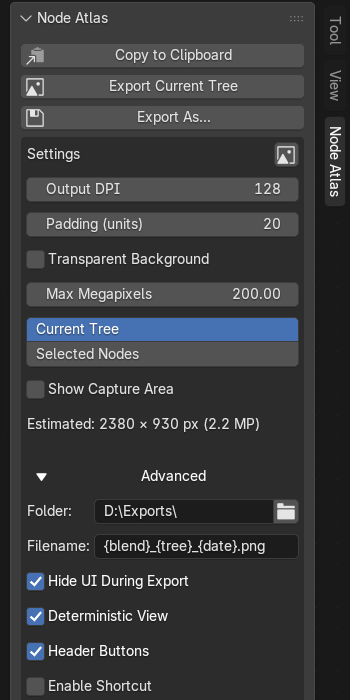
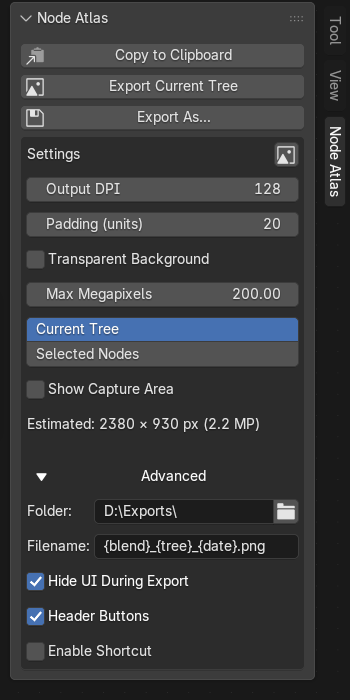
Release 1.7.1
Ship the fix for selection highlights at a non-100 percent interface Resolution Scale and drop the Deterministic View option. The per-tile selection now maps node positions with the UI-scale factor and takes its origin from the drawable nodes, so nodes and frames inside the capture stay unselected; every export primes the view with view_all, so repeatability no longer needs a setting.

Bump the manifest, __version__ and bl_info to 1.7.1. Add the CHANGELOG and RELEASE_NOTES entries, update the AGENTS status and the position-scale invariant, and record the 1.7.1 matrix, unit counts and artifact in QA_REPORT.

The full 185/185 matrix (37 per version) ran on the fix commit; after the version bump the unit suite passed 29/29 on all five, and test_artifact passed as an extension and as a classic add-on on all five. The 1.7.1 zip is dist/node_atlas-1.7.1.zip, SHA256 b8bafb6a263c5ae848e7ca169d3107ed27d364990e7d45ab8ef6284d953d0851.

Refs: report 5 item 17 and 11.10; QA_REPORT 1.7.1

Changed region(s): [[0.0286, 0.87, 0.4857, 1.0], [0.8571, 0.96, 0.9143, 1.0]]

diff --git a/node_atlas/__init__.py b/node_atlas/__init__.py
@@ -12,13 +12,13 @@ from .log import get_logger
 
 log = get_logger()
 
-__version__ = "1.7.0"
+__version__ = "1.7.1"
 __author__ = "kirillhod"
 
 bl_info = {
     "name": "Node Atlas",
     "author": "kirillhod",
-    "version": (1, 7, 0),
+    "version": (1, 7, 1),
     "blender": (4, 2, 0),
     "location": "Node Editor > Sidebar > Node Atlas",
     "description": "Export any node tree as one high-resolution PNG",

diff --git a/QA_REPORT.md b/QA_REPORT.md
@@ -1,18 +1,23 @@
 # NodeAtlas QA report
 
-**Version:** 1.7.0<br>
+**Version:** 1.7.1<br>
 **Date:** 22 November 2026<br>
 **Platforms:** Windows, GUI sessions only
 
-> **1.7.0.** Adds **Transparent Background**: the editor background and the padding are
-> removed by two-background matting, so shadows, links and semi-transparent frames keep
-> their real alpha. Each tile is captured twice, over black and over mid-grey, in two
-> passes: the editor dims once per pass, never flashing white. The theme and the backdrop
-> grid are restored after success, cancel and an induced failure, and the first pass is
-> held on disk so peak memory is unchanged. The capture-area preview is now off by default.
+> **1.7.1.** Patch release for exports at a non-default interface **Resolution Scale** and
+> for the repeatability option. The per-tile selection that keeps long links at full
+> strength mapped node positions with the size factor, so at Resolution Scale 1.25 nodes
+> and frames that were inside the capture were selected and their outline and frame tint
+> appeared in the PNG. Positions now use `s`, sizes `k` (report §5 item 17), and the box
+> origin comes from the drawable nodes. On a 53-node shader tree at 128 DPI the old box
+> selected 36 visible node-tile pairs across eight of nine tiles; the old and fixed exports
+> differed by 37 392 px. **Deterministic View** is gone: every export primes with
+> `view_all`, so repeated exports are identical without a setting.
 >
-> Full source matrix for 1.7.0: **36/36 GUI runs and 28/28 unit tests on each of
-> Blender 4.2.23, 4.5.9, 5.1.2, 5.2.4 and 5.3.0** (180/180 GUI total).
+> Full source matrix: **37/37 GUI runs and 29/29 unit tests on each of Blender 4.2.23,
+> 4.5.9, 5.1.2, 5.2.4 and 5.3.0** (185/185 GUI total). The matrix ran on the fix commit;
+> the later version-bump commit changes only the three version fields, and the unit suite
+> (including the version-consistency case) was re-run after the bump.
 > `test_artifact.py` results and the artifact hash are in [Packaging](#packaging).
 >
 > The detailed tables below are the 1.3.6 baseline; 1.4.0 changed sizes only by the
@@ -67,8 +72,8 @@ blender --background --factory-startup --python tests/unit/test_core.py
 | Shortcut keymap / customization | PASS | PASS | PASS | PASS | PASS |
 | Manifest/`__version__` consistency | PASS | PASS | PASS | PASS | PASS |
 
-Result: **19/19 categories PASS on all five versions** (1.3.6 baseline; the 1.7.0 suite is
-28/28, see the version notes above).
+Result: **19/19 categories PASS on all five versions** (1.3.6 baseline; the 1.7.1 suite is
+29/29, see the version notes above).
 
 ## GUI tests
 
@@ -108,6 +113,14 @@ window, exports a fixture, validates the PNG and editor restoration, then exits.
 | `test_clipboard.py` | PASS, OS clipboard checked | PASS | PASS | PASS | PASS |
 | `test_path.py` | PASS, empty dir refused | PASS | PASS | PASS | PASS |
 | `test_transparent.py` | PASS, transparent padding | PASS | PASS | PASS | PASS |
+
+1.7.1: **37/37 source GUI runs passed on each of the five versions** (185/185 total), and
+the unit suite is 29/29 on each version. `test_scale.py` is the new case: it exports at
+Resolution Scale 1.25 and 192 DPI and checks every selected node against the measured view
+after the redraw, so a node selected while visible fails the test. The unit suite also adds
+the `s != k` tile case and `test_content_origin`. The Deterministic View preference was
+removed, so the tests no longer set it. The matrix ran before the version bump; the only
+later change is the three version fields, covered by the unit suite.
 
 1.7.0: **36/36 source GUI runs passed on each of the five versions** (180/180 total), and
 the unit suite is 28/28 on each version. `test_transparent.py` is the new case: it exports
@@ -186,7 +199,16 @@ without a clamp warning.
 
 - `blender --command extension validate node_atlas`: PASS.
 - `blender --command extension build --source-dir node_atlas --output-dir dist`:
-  produces `node_atlas-1.7.0.zip` with the manifest and the ten package modules.
+  produces `node_atlas-1.7.1.zip` with the manifest and the ten package modules.
+- **1.7.1 artifact:** build and `extension validate` PASS; the zip contains only the
+  manifest and the ten package modules (`job.py` and `naming.py` included), with no
+  `__pycache__`. The official installer (`install-file -r user_default -e`) installed it
+  into an isolated `BLENDER_USER_EXTENSIONS` profile on 4.2.23, 4.5.9, 5.1.2, 5.2.4 and
+  5.3.0, and `test_artifact.py` exported a PNG from `bl_ext.user_default.node_atlas` on
+  each. The classic folder copied into an isolated `scripts/addons` profile enabled
+  `node_atlas` and exported on all five.
+- `node_atlas-1.7.1.zip` SHA256:
[1 lines of base64/hex data omitted]
 - **1.7.0 artifact:** build and `extension validate` PASS; the zip contains only the
   manifest and the ten package modules (`job.py` and `naming.py` included), with no
   `__pycache__`. The official installer (`install-file -r user_default -e`) installed it

diff --git a/RELEASE_NOTES.md b/RELEASE_NOTES.md
@@ -1,29 +1,20 @@
-# Node Atlas 1.7.0
+# Node Atlas 1.7.1
 
 **Released:** 22 November 2026
 
 Node Atlas exports any Blender node tree as one high-resolution PNG: the whole graph in a
-single image, with the real editor background and padding.
+single image, with the real editor background or a transparent one.
 
-### What's new in 1.7.0
+### What's new in 1.7.1
 
-- **Transparent background.** Turn on **Transparent Background** and the editor background
-  is removed from the export, including the padding, so the PNG drops straight onto any
-  colour in a slide, document or mock-up. Node shadows, anti-aliased text and links keep
-  their real alpha instead of being cut out with a colour key.
-- **Nothing else changes in the image.** The matting is solved from two captures of the
-  same tile; composited back over the editor background, the result matches a normal export
-  to a mean of 0.05 and a maximum of 2.8 of 255, measured on Windows. Node shadows and
-  semi-transparent frames keep their real alpha. The option is in the sidebar and in
-  **Export As**.
-- **No white flash.** The editor background turns black for the first capture pass and
-  mid-grey for the second, instead of switching colour for every tile; the theme and the
-  backdrop grid come back when the export ends.
-- **The capture-area preview is off by default.** Enable **Show Capture Area** in the
-  sidebar if you want the dashed rectangle and its size label.
-- **What it costs.** Every tile is captured twice, once over black and once over mid-grey,
-  so a transparent export takes about twice as long as an opaque one. Memory use is
-  unchanged.
+- **No stray selection outlines.** When Blender's interface **Resolution Scale** was set to
+  anything other than 100 %, nodes and frames that were fully inside the capture could be
+  drawn as selected, leaving their highlight and frame tint in the PNG. The export now
+  measures node positions the same way the editor draws them, so the temporary selection
+  used to keep long links at full strength always stays outside the captured tiles.
+- **Deterministic View is gone.** Every export now primes the view with **View All**, so
+  repeated exports of the same graph are pixel-identical. The option was in the sidebar and
+  in **Export As**, and nothing needs to be enabled in its place.
 
 ### Features
 
@@ -31,6 +22,8 @@ single image, with the real editor background and padding.
   the whole Compositor tree.
 - Optional links to the nodes directly connected to the selection.
 - Capture-area preview that shows the exported rectangle and its estimated size.
+- Transparent background: the editor background and the padding are removed, while shadows,
+  links and semi-transparent frames keep their real alpha.
 - Output density independent of monitor DPI and current zoom: 96 DPI is 1:1 with node
   pixels.
 - Real background padding captured from the editor, not painted, optionally transparent.
@@ -41,7 +34,7 @@ single image, with the real editor background and padding.
 
 ### Supported versions
 
-Blender **4.2 and newer**. Version 1.7.0 was checked on 4.2.23 LTS, 4.5.9 LTS, 5.1.2, 5.2.4
+Blender **4.2 and newer**. Version 1.7.1 was checked on 4.2.23 LTS, 4.5.9 LTS, 5.1.2, 5.2.4
 LTS and 5.3.0, with Shader, Geometry Nodes, Compositor and Texture trees.
 
 ### Known limitations
@@ -64,18 +57,3 @@ LTS and 5.3.0, with Shader, Geometry Nodes, Compositor and Texture trees.
 - **Copy to Clipboard** depends on Blender's image clipboard support and OS limits; very
   large images may be rejected or slow to paste. Normal file exports are unaffected.
 - No batch export, SVG or JSON output, or headless capture.
-
-### Verification
-
-The 1.7.0 zip was installed on every supported Blender version through the official
-extension installer and also as a classic add-on, and exported a real PNG in each case.
-The transparent export is covered by its own live test, which requires transparent padding,
-opaque nodes, partial alpha on shadows and an exactly restored theme.
-
-### Install
-
-1. Download `node_atlas-1.7.0.zip` below.
-2. In Blender open **Edit → Preferences → Extensions**.
-3. Use **Install from Disk…**, choose the zip and enable **Node Atlas**.
-
-Requires Blender 4.2 or newer. The same zip also works as a classic add-on.

diff --git a/AGENTS.md b/AGENTS.md
@@ -15,7 +15,7 @@ as one high-resolution PNG. It captures the
 [NumPy](https://numpy.org/doc/stable/), and saves through
 [`imbuf`](https://docs.blender.org/api/current/imbuf.html). No re-rendering.
 
-**Status:** 1.7.0. M0–M8 are complete (Shader/Geometry Nodes/Compositor/Texture),
+**Status:** 1.7.1. M0–M8 are complete (Shader/Geometry Nodes/Compositor/Texture),
 the legacy 4.2–5.1 path is validated on Blender 4.2.23, 4.5.9 and 5.1.2, and hardening
 (limits, fault injection, read-only/full-disk output, scaling) is tested on 4.2–5.3.
 The Compositor works on 4.2–5.3: the compositor tree stays unpinned on 4.2/4.5, where
@@ -28,6 +28,9 @@ Since 1.6.1 every export restores the editor UI and selection, `~` in a folder i
 and the shortcut uses Cmd on macOS.
 Since 1.7.0 **Transparent Background** recovers alpha from two capture passes over black
 and mid-grey; it costs a second screenshot per tile, hides the grid, and restores the theme.
+Since 1.7.1 the per-tile selection maps positions with the UI-scale factor, so exports at
+any Resolution Scale no longer capture selection outlines, and the view is always primed
+with `view_all` (the Deterministic View option is gone).
 Packaging and docs are complete for Windows; Linux, macOS and a second monitor are
 untested.
 
@@ -117,7 +120,8 @@ Verified on Blender 5.3.0. Violating them yields plausible-looking but wrong ima
 
    Use `location_absolute` (some 4.2 node types lack it; fall back to summing
    `location` up the parent chain) and `dimensions` (not `height`); bounds are zero before the
-   first draw.
+   first draw. Use `s` for every node position (export rectangle, preview, per-tile selection)
+   and `k` only for widths and heights.
 
 2. **Never assume zoom.** `view2d.reset()` is non-deterministic. Prime with
    [`node.view_all()`](https://docs.blender.org/api/current/bpy.ops.node.html#bpy.ops.node.view_all),

diff --git a/CHANGELOG.md b/CHANGELOG.md
@@ -1,5 +1,16 @@
 # Changelog
 
+## 1.7.1
+
+- Fix stray selection highlights in the exported PNG when Blender's interface
+  **Resolution Scale** is not 100 %. Nodes and frames that were fully inside the capture
+  could be drawn as selected, leaving their outline and frame tint in the image. The
+  per-tile selection that keeps long links at full strength now uses the same position
+  scale as the editor.
+- Remove the **Deterministic View** option. Every export primes the view with **View All**,
+  so repeated exports of the same graph stay pixel-identical; there was no reason to turn
+  the option off. It is gone from the sidebar and from **Export As**.
+
 ## 1.7.0
 
 - Add a **Transparent Background** export option. Every tile is captured twice, over flat

diff --git a/README.md b/README.md
@@ -6,7 +6,7 @@ one.
 
 `Blender 4.2+` · `GPL-3.0-or-later` · `Windows tested`
 
-![A whole shader tree in one 5068 × 2506 PNG](docs/images/example-export.png)
+![A whole shader tree in one 6756 × 3340 PNG](docs/images/example-export.png)
 
 ## What it does
 
